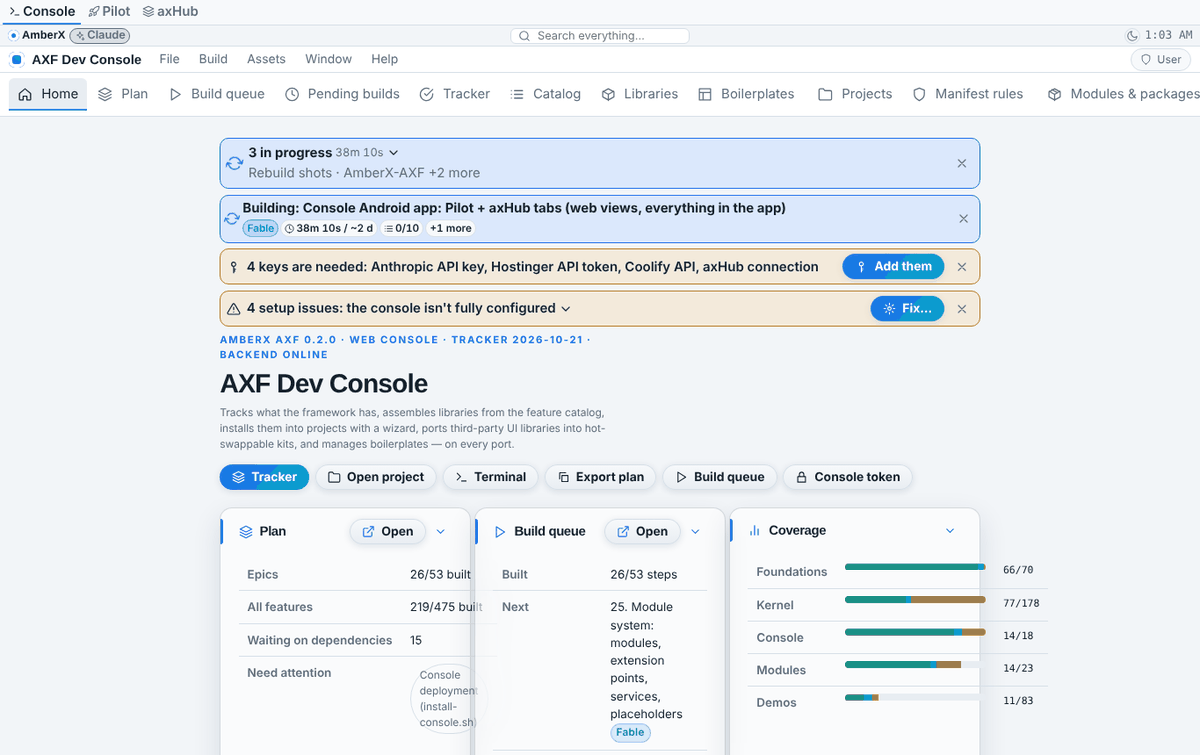
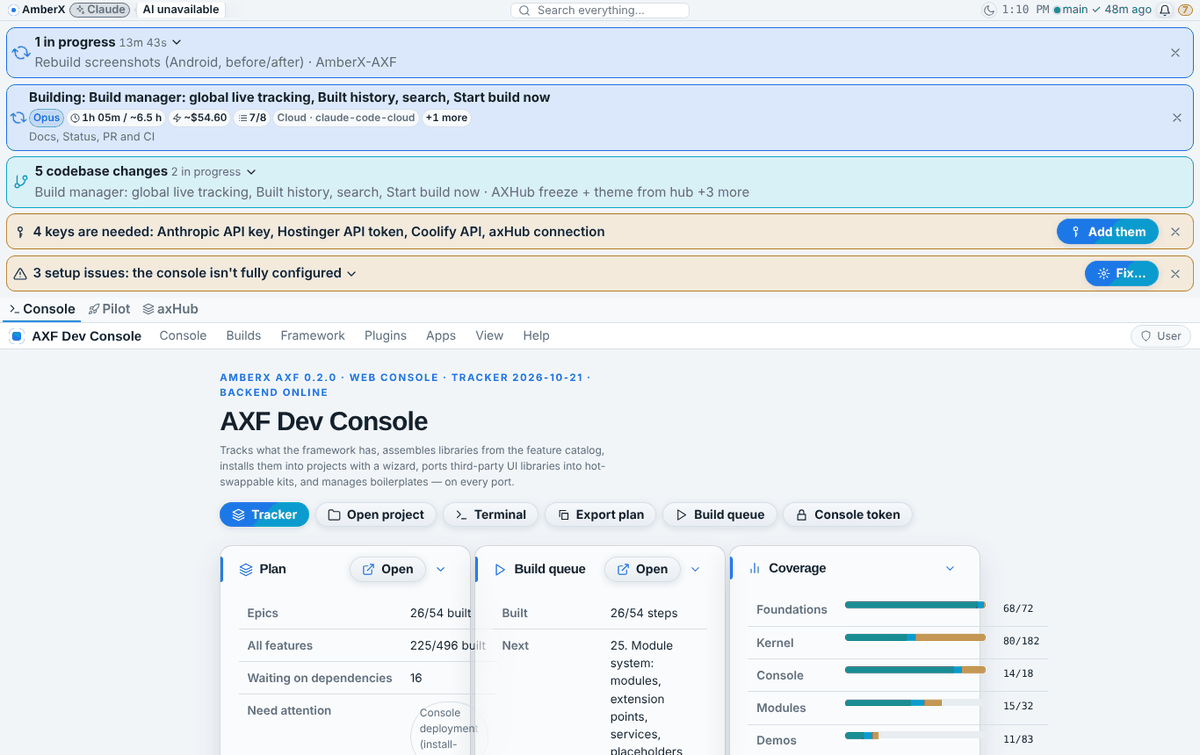
Build manager: 0.2.0 screenshots (Live, Built, search, Start), hide the browser's duplicate clear button, tick last steps
Claude-Session: https://claude.ai/code/session_01FFzHhPgMRfAb4Wi4KJYwqg

diff --git a/apps/console-web/plugins/build-manager/web/build-manager.css b/apps/console-web/plugins/build-manager/web/build-manager.css
@@ -94,6 +94,7 @@
 .axp-build-manager__search { display: flex; align-items: center; gap: calc(var(--fx-space) * 0.5); padding: 0 calc(var(--fx-space) * 0.6); border-radius: var(--fx-radius-md); border: var(--fx-border-w) solid var(--fx-border); background: var(--fx-surface); color: var(--fx-muted) }
 .axp-build-manager__search:focus-within { border-color: var(--fx-focus) }
 .axp-build-manager__search input { flex: 1; min-width: 0; border: 0; background: transparent; box-shadow: none; outline: none; padding-left: 0; padding-right: 0 }
+.axp-build-manager__search input::-webkit-search-cancel-button { -webkit-appearance: none; appearance: none }
 .axp-build-manager__tabs { display: flex; gap: calc(var(--fx-space) * 0.3); border-bottom: var(--fx-border-w) solid var(--fx-border); overflow-x: auto }
 .axp-build-manager__tab { all: unset; box-sizing: border-box; display: inline-flex; align-items: center; gap: calc(var(--fx-space) * 0.35); padding: calc(var(--fx-space) * 0.45) calc(var(--fx-space) * 0.75); cursor: pointer; font-weight: 600; color: var(--fx-muted); border-bottom: calc(var(--fx-border-w) * 2) solid transparent; margin-bottom: calc(var(--fx-border-w) * -1); white-space: nowrap }
 .axp-build-manager__tab.is-on { color: var(--fx-accent); border-bottom-color: var(--fx-accent) }

diff --git a/_claude/memory/docs/build-manager.md b/_claude/memory/docs/build-manager.md
@@ -90,7 +90,18 @@ dry run on real data, refusals, verify; never writes framework/plan).
 
 ## Screenshots
 
-Phone:
+0.2.0 (Live, Built, search, Start build now, session builds on the banner):
+
+<img src="build-manager/shots/live-phone.png" width="260"> <img src="build-manager/shots/built-phone.png" width="260"> <img src="build-manager/shots/search-phone.png" width="260"> <img src="build-manager/shots/start-phone.png" width="260">
+
+![Built tab with totals](build-manager/shots/built-desktop.png)
+![Live tab](build-manager/shots/live-desktop.png)
+![Search across tabs](build-manager/shots/search-desktop.png)
+![Start build now](build-manager/shots/start-desktop.png)
+
+Re-take 0.2.0: `AXF_APPEARANCE_HUB=off AXF_CHANGES_DIR=<copy of changes/> node framework/cli/rebuild-shots.mjs --repo . --out _claude/memory/docs/build-manager --shots _claude/memory/docs/build-manager/shots/shots-v2.json --label shots` (pass these through the environment: the script keeps only the last `--env`).
+
+0.1.0 phone:
 
 <img src="build-manager/shots/tracker-phone.png" width="260"> <img src="build-manager/shots/view-phone.png" width="260"> <img src="build-manager/shots/needs-split-phone.png" width="260"> <img src="build-manager/shots/settings-phone.png" width="260">
 
